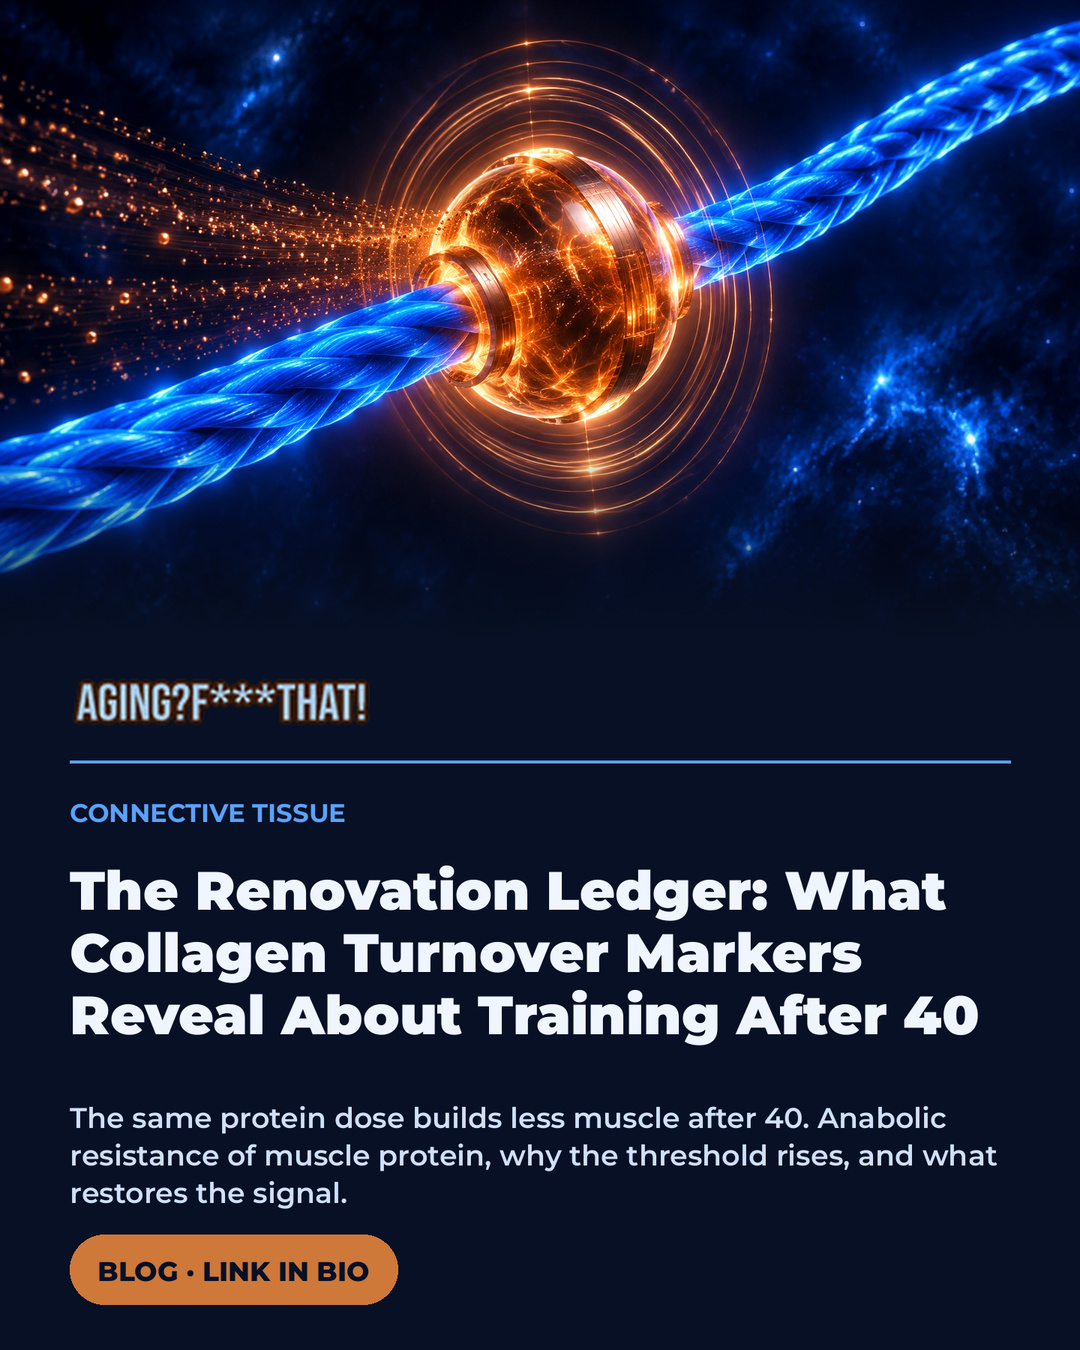
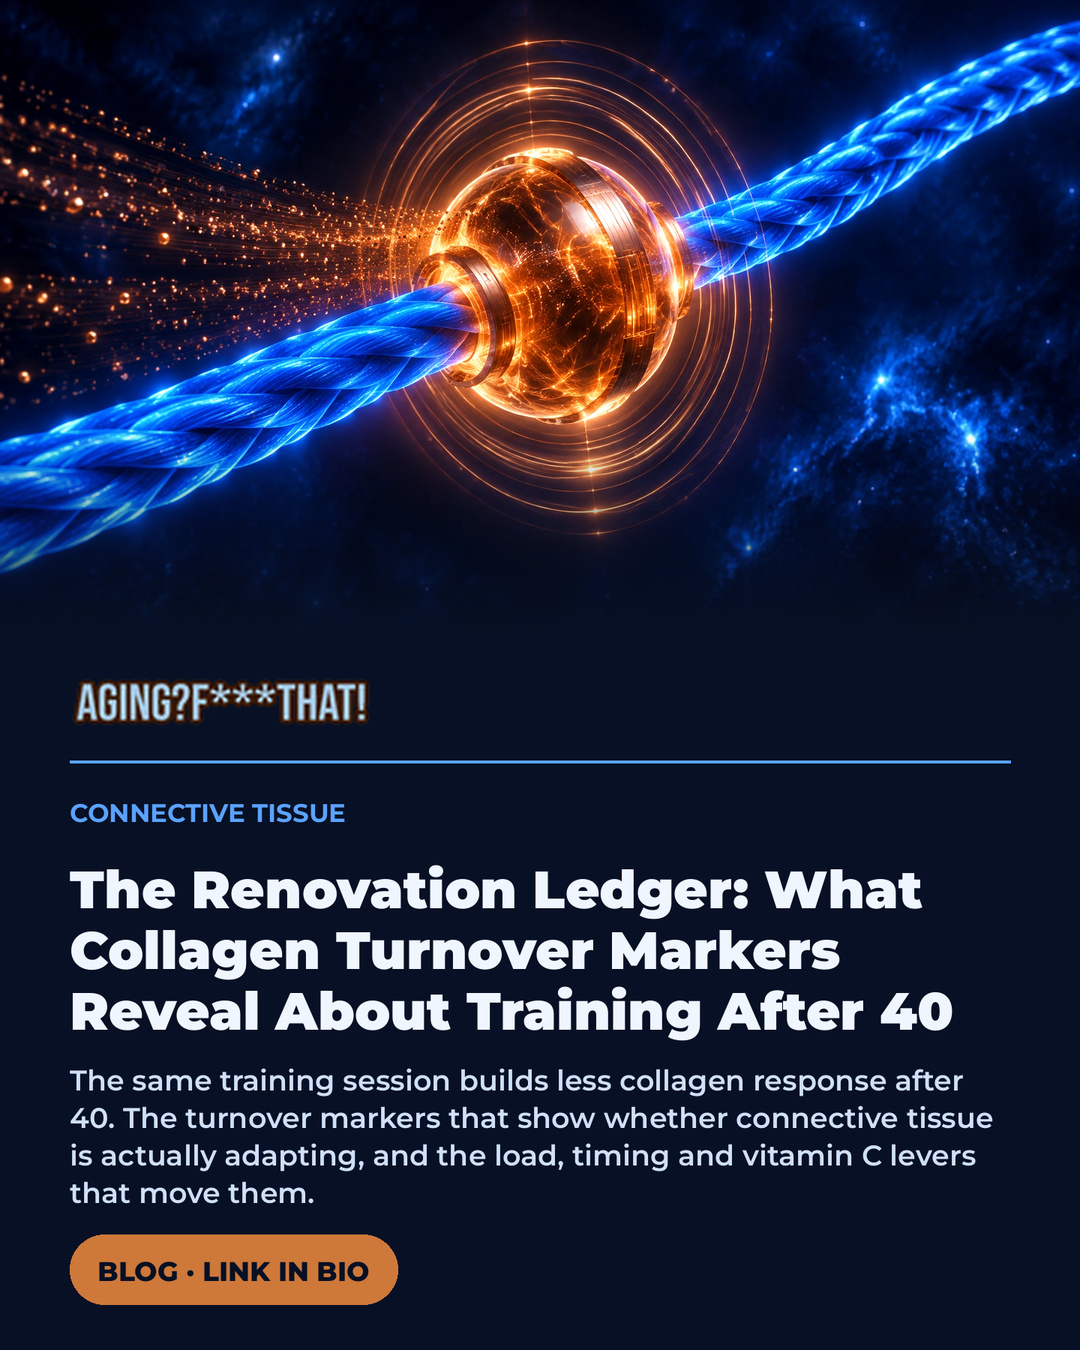
Publish the 7 November collagen turnover article with images [automated]

Changed region(s): [[0.0611, 0.6222, 0.9167, 0.9022]]

diff --git a/blog/collagen-turnover-markers-training-response.html b/blog/collagen-turnover-markers-training-response.html
@@ -3,7 +3,7 @@
 <link rel="icon" href="../favicon.svg" type="image/svg+xml">
 <link rel="apple-touch-icon" href="../apple-touch-icon.png">
 <link rel="icon" sizes="32x32" type="image/png" href="../android-chrome-192.png">
-<meta property="og:type" content="article"><meta property="og:title" content="The Renovation Ledger: What Collagen Turnover Markers Reveal About Training After 40"><meta property="og:description" content="Heavy training clips old collagen into fragments that reach blood and urine. The synthesis markers that show whether connective tissue is adapting after 40, and what moves them, from a longevity clinic in Brighton & Hove."><meta property="og:image" content="https://agingfthat.com/assets/site-images/artwork-84e668e24e097fd55685.webp"><meta property="og:url" content="https://agingfthat.com/blog/collagen-turnover-markers-training-response.html"><meta name="twitter:card" content="summary_large_image"><meta name="twitter:title" content="The Renovation Ledger: What Collagen Turnover Markers Reveal About Training After 40"><meta name="twitter:description" content="Heavy training clips old collagen into fragments that reach blood and urine. The synthesis markers that show whether connective tissue is adapting after 40, and what moves them, from a longevity clinic in Brighton & Hove."><meta name="twitter:image" content="https://agingfthat.com/assets/site-images/artwork-84e668e24e097fd55685.webp">
+<meta property="og:type" content="article"><meta property="og:title" content="The Renovation Ledger: What Collagen Turnover Markers Reveal About Training After 40"><meta property="og:description" content="Heavy training clips old collagen into fragments that reach blood and urine. The synthesis markers that show whether connective tissue is adapting after 40, and what moves them, from a longevity clinic in Brighton & Hove."><meta property="og:image" content="https://cdn.marblism.com/3sQYeboRq41.webp"><meta property="og:url" content="https://agingfthat.com/blog/collagen-turnover-markers-training-response.html"><meta name="twitter:card" content="summary_large_image"><meta name="twitter:title" content="The Renovation Ledger: What Collagen Turnover Markers Reveal About Training After 40"><meta name="twitter:description" content="Heavy training clips old collagen into fragments that reach blood and urine. The synthesis markers that show whether connective tissue is adapting after 40, and what moves them, from a longevity clinic in Brighton & Hove."><meta name="twitter:image" content="https://cdn.marblism.com/3sQYeboRq41.webp">
 body{margin:0;background:radial-gradient(circle at 50% 0,#101c3a 0,#0b1730 38%,#04091a 100%);color:#e7eefc;font:17px/1.65 Arial,sans-serif}.wrap{max-width:840px;margin:auto;padding:24px 20px 70px}.eyebrow{font-size:13px;letter-spacing:.25em;color:#5aa2ff;font-weight:700;margin:26px 0 18px}img.hero{width:100%;border-radius:22px;border:1.5px solid #3f6fd8;box-shadow:0 0 24px #2b4fa855;margin:8px 0 10px}p.caption{font-size:14px;color:#a8bce0;margin:0 0 34px}h1{font-size:clamp(32px,5vw,52px);line-height:1.05;letter-spacing:-.02em;margin:0 0 26px}h2{font-size:clamp(24px,3vw,34px);line-height:1.1;margin:38px 0 14px;color:#6db2ff}h3{font-size:19px;margin:26px 0 8px;color:#c9d6f0}p{margin:0 0 20px;color:#dde6f7}a{color:#5aa2ff}.sources{padding-left:20px;font-size:14px;color:#c8d4ee}.sources li{margin-bottom:14px}.footer{margin-top:50px;padding-top:20px;border-top:1px solid #3f5a8f;font-size:13px;color:#93a6c9}strong{color:#fff}
 <script type="application/ld+json">
 {
@@ -12,11 +12,11 @@ body{margin:0;background:radial-gradient(circle at 50% 0,#101c3a 0,#0b1730 38%,#
   {
    "@type": "Article",
    "image": [
-    "https://agingfthat.com/assets/site-images/artwork-84e668e24e097fd55685.webp",
-    "https://agingfthat.com/assets/site-images/artwork-683e32ac2966eb8144ff.webp",
-    "https://agingfthat.com/assets/site-images/artwork-ec222e07176adbde79e1.webp",
-    "https://agingfthat.com/assets/site-images/artwork-c5722e44efc40851887f.webp",
-    "https://agingfthat.com/assets/site-images/artwork-823443b4f271c281783b.webp"
+    "https://cdn.marblism.com/3sQYeboRq41.webp",
+    "https://cdn.marblism.com/yNLpoWnqkIC.webp",
+    "https://cdn.marblism.com/MO5Z1ycruhI.webp",
+    "https://cdn.marblism.com/YDjhTww3HfW.webp",
+    "https://cdn.marblism.com/bSeR-igNAix.webp"
    ],
    "author": {
     "name": "Lee C. Stonehouse",
@@ -24,10 +24,11 @@ body{margin:0;background:radial-gradient(circle at 50% 0,#101c3a 0,#0b1730 38%,#
    },
    "headline": "The Renovation Ledger: What Collagen Turnover Markers Reveal About Training After 40",
    "keywords": [
-    "anabolic resistance",
-    "muscle protein synthesis",
-    "protein after 40",
-    "protein distribution",
+    "collagen turnover",
+    "connective tissue",
+    "tendon health",
+    "PIIINP",
+    "gelatin vitamin C",
     "strength training over 50",
     "biological age",
     "longevity clinic brighton"
@@ -105,7 +106,7 @@ body{margin:0;background:radial-gradient(circle at 50% 0,#101c3a 0,#0b1730 38%,#
 <header style="padding:14px 0;text-align:center"><a href="../index.html"><img src="../aft-logo.png" alt="AGING?F***THAT!" style="width:min(760px,92%)"></a></header>
 <main class="wrap">
 <div class="eyebrow">7 NOVEMBER 2026 · LEE C. STONEHOUSE</div>
-<img class="hero" src="https://agingfthat.com/assets/site-images/artwork-84e668e24e097fd55685.webp" alt="A braided cobalt-blue cable of light crossing dark space with a glowing copper-amber clamp sphere locked around it, radiating concentric rings, symbolising collagen remodelling enzymes cutting measurable fragments from aging connective tissue"><p class="caption">The renovation receipt. When connective tissue is loaded hard enough to adapt, remodelling enzymes clip old collagen, and the fragments become a measurable signal in blood and urine.</p>
+<img class="hero" src="https://cdn.marblism.com/3sQYeboRq41.webp" alt="A braided cobalt-blue cable of light crossing dark space with a glowing copper-amber clamp sphere locked around it, radiating concentric rings, symbolising collagen remodelling enzymes cutting measurable fragments from aging connective tissue"><p class="caption">The renovation receipt. When connective tissue is loaded hard enough to adapt, remodelling enzymes clip old collagen, and the fragments become a measurable signal in blood and urine.</p>
 
 <h1>The Renovation Ledger: What Collagen Turnover Markers Reveal About Training After 40</h1>
 
@@ -115,19 +116,19 @@ body{margin:0;background:radial-gradient(circle at 50% 0,#101c3a 0,#0b1730 38%,#
 <h3>What MMP-1 leaves behind</h3>
 <p>Collagen is rope built at the molecular scale: three protein strands wound into a triple helix, assembled into fibrils, stacked into the cables that carry force from muscle to bone. Rope wears out, so the body renovates it continuously, and the renovation enzyme of interest is matrix metalloproteinase-1, MMP-1. It cuts the collagen molecule at one specific site, snipping the old cable into fragments small enough to be cleared away. That cleavage is not damage. It is the first step of remodelling, the demolition permit that precedes the rebuild.</p>
 <p>The fragments do not simply evaporate. The pieces released during remodelling, along with the propeptides trimmed off when new collagen is laid down, circulate in blood, and a portion is excreted in urine. Osteoporosis clinics have read urinary type I collagen telopeptide assays for three decades as a window on bone turnover. The same logic travels to soft tissue: what the remodelling enzymes clip becomes measurable, and the measurement tracks the renovation itself rather than the renovation crew.</p>
-<img class="hero" src="https://agingfthat.com/assets/site-images/artwork-683e32ac2966eb8144ff.webp" alt="A thick braided cable of luminous cobalt-blue fibres in dark space with a glowing copper-amber clamp sphere locked around it at one point, radiating concentric rings, with fine copper particles drifting away from the cut, symbolising MMP-1 cleaving old collagen into measurable fragments">
+<img class="hero" src="https://cdn.marblism.com/yNLpoWnqkIC.webp" alt="A thick braided cable of luminous cobalt-blue fibres in dark space with a glowing copper-amber clamp sphere locked around it at one point, radiating concentric rings, with fine copper particles drifting away from the cut, symbolising MMP-1 cleaving old collagen into measurable fragments">
 <p class="caption">The clamp on the cable. MMP-1 cuts old collagen at a single site, and the clipped fragments become the measurable receipt of tissue remodelling.</p>
 <p>The practical point is not that every reader should order a urinary panel. The point is mechanistic and hopeful: connective tissue adaptation is not the silent process it is usually assumed to be. When loading is sufficient, the tissue leaves receipts, and those receipts arrive on a faster clock than the strength gains everyone waits for.</p>
 <h2>THE WINDOW</h2>
 <h3>Days versus months</h3>
 <p>The classic measurements come from tendon research in Scandinavia, where microdialysis catheters sampled the tissue around exercising tendons directly. A heavy loading session raises type I collagen synthesis in peritendinous tissue within hours, and the elevation persists for days. Muscle behaves differently: its protein synthetic pulse after a session peaks early and fades within a day or two. Collagen’s answer is slower to rise and slower to leave, which makes it the longer-lasting signal of the two.</p>
-<img class="hero" src="https://agingfthat.com/assets/site-images/artwork-ec222e07176adbde79e1.webp" alt="A glowing amber-copper holographic clock face of thin light arcs floating in dark space with cobalt-blue particles streaming through it in one direction, symbolising the days-long collagen synthesis window that follows a heavy loading session">
+<img class="hero" src="https://cdn.marblism.com/MO5Z1ycruhI.webp" alt="A glowing amber-copper holographic clock face of thin light arcs floating in dark space with cobalt-blue particles streaming through it in one direction, symbolising the days-long collagen synthesis window that follows a heavy loading session">
 <p class="caption">One session, several days of construction. Collagen synthesis stays elevated far longer than the muscle signal, which is why the two tissues need different timetables.</p>
 <p>Further out from the tissue, serum PIIINP, the aminoterminal propeptide of type III procollagen, rises with the collagen-building wave and has been used in sports science as a circulating read-out of synthesis. The propeptide is the end piece trimmed away when a new collagen molecule is assembled, so a rising level reflects construction, not demolition. The distinction matters: one family of markers tracks the tear-down, the other tracks the build.</p>
 <p>Here is the midlife twist, and it connects directly to the anabolic resistance of connective tissue covered in an earlier article. Older tendon answers the same session with a smaller synthesis response, and the mechanical changes that actually stiffen the tissue arrive in months, if they arrive at all within short programs. The synthesis markers are the earliest available evidence that a protocol is reaching the tissue at all, arriving within days when strength benchmarks and stiffness measures need months. After 40, that difference in latency is the entire value of the read-out.</p>
 <h2>WHY GUESSING FAILS</h2>
 <h3>Two failure modes</h3>
-<img class="hero" src="https://agingfthat.com/assets/site-images/artwork-c5722e44efc40851887f.webp" alt="A thick bundle of glowing amber-copper glass filaments with a cobalt-blue core, fraying at one end into scattering particles of light, symbolising connective tissue de-training and the cost of unmeasured loading">
+<img class="hero" src="https://cdn.marblism.com/YDjhTww3HfW.webp" alt="A thick bundle of glowing amber-copper glass filaments with a cobalt-blue core, fraying at one end into scattering particles of light, symbolising connective tissue de-training and the cost of unmeasured loading">
 <p class="caption">The frayed end. Unloading and under-dosing pull connective tissue back faster than muscle, and without a read-out the regression is invisible until something protests.</p>
 <p>The first failure mode is under-loading. Light band work and gentle mobility sessions feel appropriately cautious in midlife, but the tissue signal that drives collagen synthesis appears to require substantial mechanical load, and a program built entirely below that line produces busy calendars without tissue renovation. The second failure mode is the layoff. Unloading studies show tendon and ligament properties decline measurably within weeks, and older tissue re-adapts more slowly than young tissue after the break. A three-week holiday that a 30-year-old absorbs can cost a 55-year-old two months of rebuilding.</p>
 <p>Both failure modes share one feature: the wasted effort or the regression is invisible in the mirror and on the scale. That is the case for a read-out that sits between the session and the season, something that answers within days whether the current program is reaching the tissue, and within weeks whether the dose is large enough.</p>
@@ -135,7 +136,7 @@ body{margin:0;background:radial-gradient(circle at 50% 0,#101c3a 0,#0b1730 38%,#
 <h3>Load first, then the building blocks</h3>
 <p>The primary lever is the same one the tendon literature keeps returning to: heavy, slow, sustained loading. The synthesis signal follows mechanical tension, not intent, so the session has to clear a real threshold. Everything nutritional sits downstream of that.</p>
 <p>The best-known feeding experiment found that 15 grams of gelatin taken with vitamin C about an hour before loading roughly doubled the rise in circulating collagen synthesis markers. Vitamin C is not a garnish here, it is the required cofactor for the reactions that make collagen molecules stable, and the timing matters because the amino acids need to be on site when the synthesis window opens after the session. Collagen peptides have since been studied similarly. None of this replaces load, and none of it is a tendon repair kit. It is substrate timing for a window that the training opens.</p>
-<img class="hero" src="https://agingfthat.com/assets/site-images/artwork-823443b4f271c281783b.webp" alt="A rising staircase of translucent glass steps glowing cobalt-blue at the base and warming to copper-amber at the top, with fine copper particles spiralling upward, symbolising connective tissue adaptation accumulating over successive loading cycles">
+<img class="hero" src="https://cdn.marblism.com/bSeR-igNAix.webp" alt="A rising staircase of translucent glass steps glowing cobalt-blue at the base and warming to copper-amber at the top, with fine copper particles spiralling upward, symbolising connective tissue adaptation accumulating over successive loading cycles">
 <p class="caption">The staircase signal. Each loading cycle adds an increment, and the synthesis markers confirm the climb weeks before the benchmarks do.</p>
 <p>The honest framing of the evidence is this: the loading response in collagen synthesis is well measured, the gelatin and vitamin C effect on synthesis markers is demonstrated under controlled conditions, and the translation of both into fewer injuries in free-living adults remains the weaker end of the chain. What the markers offer today is feedback, not prophecy. They tell you whether the renovation crew showed up.</p>
 <h2>THE SYSTEM VIEW</h2>
